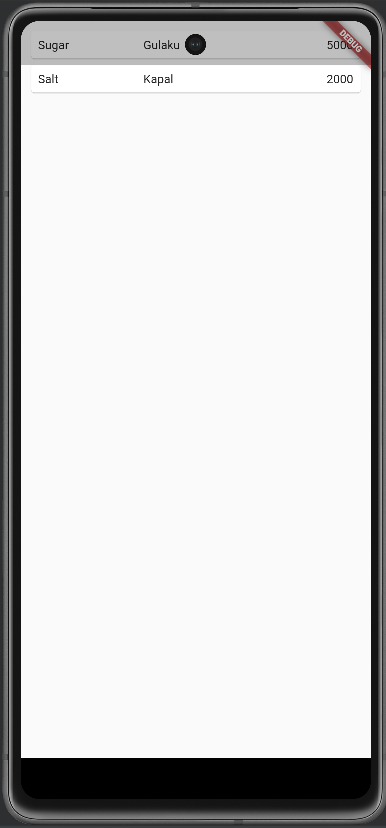
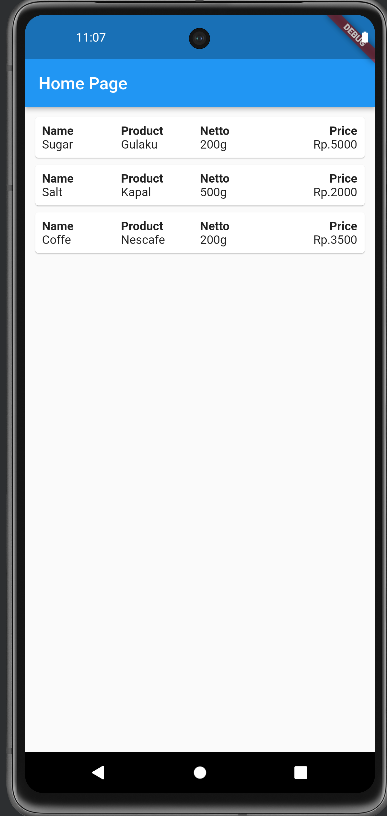
pertemuan5

diff --git a/lib/pertemuan5/lib/pages/home_page.dart b/lib/pertemuan5/lib/pages/home_page.dart
@@ -3,12 +3,17 @@ import '../models/item.dart';
 
 class HomePage extends StatelessWidget {
   final List<Item> items = [
-    Item(name: 'Sugar', nameProduct: 'Gulaku', price: 5000),
-    Item(name: 'Salt', nameProduct: 'Kapal', price: 2000),
+    Item(name: 'Sugar', nameProduct: 'Gulaku', netto: '200g', price: 5000),
+    Item(name: 'Salt', nameProduct: 'Kapal', netto: '500g', price: 2000),
+    Item(name: 'Coffe', nameProduct: 'Nescafe', netto: '200g', price: 3500),
   ];
   @override
   Widget build(BuildContext context) {
     return Scaffold(
+      appBar: AppBar(
+        title: Text('Home Page'),
+        backgroundColor: Colors.blue,
+      ),
       body: Container(
         child: ListView.builder(
           padding: EdgeInsets.all(8),
@@ -22,15 +27,45 @@ class HomePage extends StatelessWidget {
               child: Card(
                 child: Container(
                   margin: EdgeInsets.all(8),
-                  child: Row(children: [
-                    Expanded(child: Text(item.name)),
-                    Expanded(child: Text(item.nameProduct)),
-                    Expanded(
-                      child: Text(
-                        item.price.toString(),
-                        textAlign: TextAlign.end,
+                  child: Column(children: [
+                    Container(
+                      child: Row(
+                        children: [
+                          Expanded(
+                              child: Text('Name',
+                                  style:
+                                      TextStyle(fontWeight: FontWeight.bold))),
+                          Expanded(
+                              child: Text('Product',
+                                  style:
+                                      TextStyle(fontWeight: FontWeight.bold))),
+                          Expanded(
+                              child: Text('Netto',
+                                  style:
+                                      TextStyle(fontWeight: FontWeight.bold))),
+                          Expanded(
+                            child: Text(
+                              'Price',
+                              style: TextStyle(fontWeight: FontWeight.bold),
+                              textAlign: TextAlign.end,
+                            ),
+                          ),
+                        ],
                       ),
                     ),
+                    Container(
+                      child: Row(children: [
+                        Expanded(child: Text(item.name)),
+                        Expanded(child: Text(item.nameProduct)),
+                        Expanded(child: Text(item.netto)),
+                        Expanded(
+                          child: Text(
+                            'Rp.' + item.price.toString(),
+                            textAlign: TextAlign.end,
+                          ),
+                        ),
+                      ]),
+                    )
                   ]),
                 ),
               ),

diff --git a/lib/pertemuan5/lib/pages/item_page.dart b/lib/pertemuan5/lib/pages/item_page.dart
@@ -7,7 +7,7 @@ class ItemPage extends StatelessWidget {
     final Item itemArgs = ModalRoute.of(context)!.settings.arguments as Item;
     return Scaffold(
       appBar: AppBar(
-        title: Text('Item Page'),
+        title: Text('Detailed Product Page (' + itemArgs.name + ')'),
       ),
       body: Center(
         child: Row(
@@ -16,6 +16,8 @@ class ItemPage extends StatelessWidget {
             Text(itemArgs.name +
                 ' Brand ' +
                 itemArgs.nameProduct +
+                ' Netto ' +
+                itemArgs.netto +
                 ' with ' +
                 itemArgs.price.toString()),
           ],

diff --git a/lib/pertemuan5/lib/models/item.dart b/lib/pertemuan5/lib/models/item.dart
@@ -1,7 +1,12 @@
 class Item {
   String name;
   String nameProduct;
+  String netto;
   int price;
 
-  Item({required this.name, required this.nameProduct, required this.price});
+  Item(
+      {required this.name,
+      required this.nameProduct,
+      required this.netto,
+      required this.price});
 }
